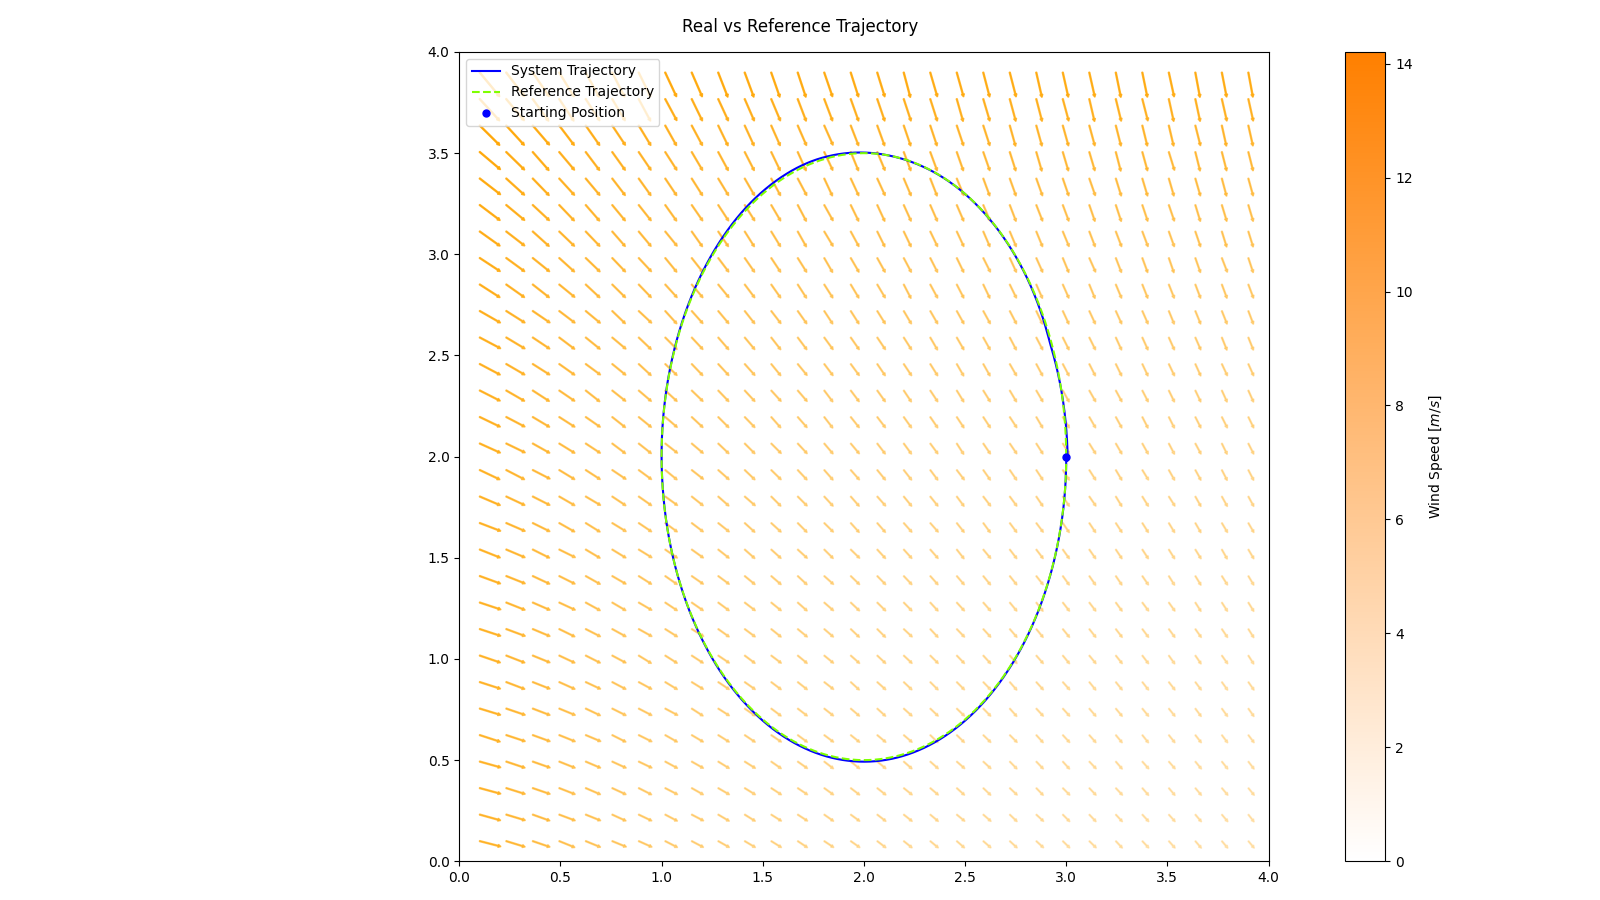
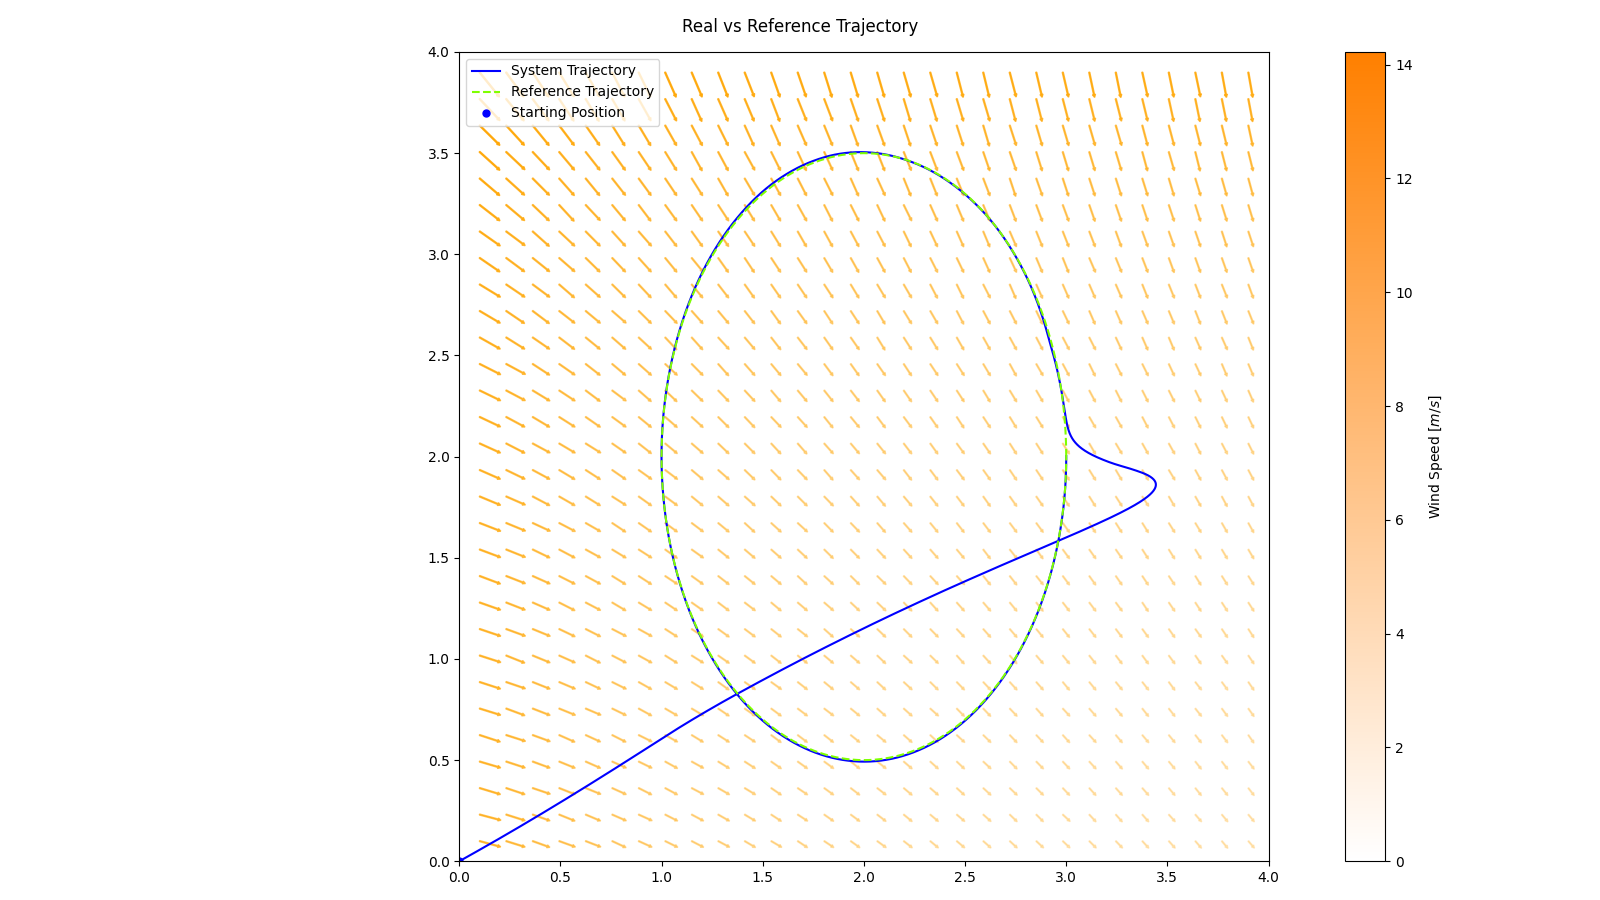
Added initial position to simulation and xhanged controller parameters and configuration

diff --git a/WindField.py b/WindField.py
@@ -87,10 +87,13 @@ class WindField:
         self.__system = System(m,r,self.__dt)
 
         # Controller Matrices
-        Kp = np.diag([32.0,15.0])
-        Kd = np.diag([13.0,9.0])
+        Kp = np.diag(data["Kp"])
+        Kd = np.diag(data["Kd"])
         # The controller's parameter were retrieved using MATLAB
         self.__pd = PD(Kp,Kd)
+        # Setup controller saturation
+        self.__lower_control_lim = data["u_min"]
+        self.__upper_control_lim = data["u_max"]
         
     def __setup_gp(self):
         # Create arrays to train the GP model
@@ -317,7 +320,7 @@ class WindField:
             self.__system.discrete_dynamics(wind_force+control_force)
             t+=1
 
-    def simulate_gp(self, max_size, predictors, show=False, save=None, kernel_name=''):
+    def simulate_gp(self, max_size, predictors, p0=None, show=False, save=None, kernel_name=''):
         if self.__trajectory is None:
             raise MissingTrajectoryException()
         
@@ -404,9 +407,6 @@ class WindField:
                     predicted_x_pos.append(dummy.p[0])
                     predicted_y_pos.append(dummy.p[1])
 
-                    self.__ctl_forces_x.append(control_force[0])
-                    self.__ctl_forces_y.append(control_force[1])
-
                     # Collect labels for GP
                     self.__gp_label_x.append(wind_force[0])
                     self.__gp_label_y.append(wind_force[1])
@@ -431,6 +431,10 @@ class WindField:
                     predictor_y.set_train_data(torch.cat([gp_data,p],dim=0),torch.cat([gp_labels,torch.FloatTensor([wind_force[1]])],dim=0),strict=False)
                 k+=1
             
+            control_force = control_force.clip(self.__lower_control_lim,self.__upper_control_lim)
+            self.__ctl_forces_x.append(control_force[0])
+            self.__ctl_forces_y.append(control_force[1])
+
             # Simulate Dynamics
             self.__system.discrete_dynamics(wind_force+control_force)
             dummy.set_state(self.__system.p.copy(),self.__system.v.copy())
@@ -611,7 +615,7 @@ class WindField:
         #     # f'imgs/animations/{kernel_name}-{self.__trajectory_name}-trajectory.gif'
         # )
 
-    def simulate_mogp(self, max_size, predictor, show=False, save=None, kernel_name=''):
+    def simulate_mogp(self, max_size, predictor, p0=None, show=False, save=None, kernel_name=''):
         if self.__trajectory is None:
             raise MissingTrajectoryException()
         
@@ -628,8 +632,12 @@ class WindField:
 
         # Set the mass initial conditions
         p,_ = self.__trajectory.trajectory()
-        x0 = p[0,0]
-        y0 = p[1,0]
+        if p0 is None:
+            x0 = p[0,0]
+            y0 = p[1,0]
+        else:
+            x0 = p0[0]
+            y0 = p0[1]
         self.__system.p[0] = x0
         self.__system.p[1] = y0
 
@@ -688,9 +696,6 @@ class WindField:
                     predicted_x_pos.append(dummy.p[0])
                     predicted_y_pos.append(dummy.p[1])
 
-                    self.__ctl_forces_x.append(control_force[0])
-                    self.__ctl_forces_y.append(control_force[1])
-
                     # Collect labels for GP
                     self.__gp_label_x.append(wind_force[0])
                     self.__gp_label_y.append(wind_force[1])
@@ -708,6 +713,10 @@ class WindField:
                     predictor.set_train_data(torch.cat([gp_data,p],dim=0),torch.cat([gp_labels,torch.FloatTensor([wind_force])],dim=0),strict=False)
                 k+=1
             
+            control_force = control_force.clip(self.__lower_control_lim,self.__upper_control_lim)
+            self.__ctl_forces_x.append(control_force[0])
+            self.__ctl_forces_y.append(control_force[1])
+
             # Simulate Dynamics
             self.__system.discrete_dynamics(wind_force+control_force)
             dummy.set_state(self.__system.p.copy(),self.__system.v.copy())
@@ -885,9 +894,9 @@ class WindField:
             plt.show()
         plt.close('all')
 
-        # self.animate(
-        #     # f'imgs/animations/{kernel_name}-{self.__trajectory_name}-trajectory.gif'
-        # )
+        self.animate(
+            # f'imgs/animations/{kernel_name}-{self.__trajectory_name}-trajectory.gif'
+        )
 
     def reset(self, wind_field_conf_file=None, mass_conf_file=None, gp_predictor_x=None, gp_predictor_y=None):
         '''
@@ -938,7 +947,7 @@ class WindField:
         '''
         self.__setup_gp()
 
-    def animate(self, save=None):
+    def animate(self, save=None, scale=25, interval=10):
         '''
         Plots the animation showing the evolution of the system following the trajectory
         in the wind field
@@ -950,22 +959,23 @@ class WindField:
         fig.suptitle(f'{file_name} Trajectory')
         fig.set_size_inches(16,9)
         def animation_function(t):
+            t = int(t*scale)
             ax.clear()
             ax.set_xlim([0,self.__width])
             ax.set_ylim([0,self.__height])
             ax.plot(np.NaN, np.NaN, '-', color='none', label='t={0:.2f} s'.format(t*self.__dt))
-            ax.plot(self.__tr_p[0,t],self.__tr_p[1,t],'o',color='orange',markersize=7,label='Target Distance=[{0:.2f},{0:.2f}] m'.format(self.__ex[int(t/self.__control_frequency)],self.__ey[int(t/self.__control_frequency)])) # Traget Location
+            ax.plot(self.__tr_p[0,t],self.__tr_p[1,t],'o',color='orange',markersize=7,label='Target Distance=[{0:.2f},{0:.2f}] m'.format(self.__ex[t],self.__ey[t])) # Traget Location
             ax.plot(self.__xs[t],self.__ys[t],'bo',markersize=5) # Object Moving
-            ax.quiver(self.__xs[t],self.__ys[t],self.__wind_force_x[t],self.__wind_force_y[t],scale=20,width=0.003,color='r',label='Wind Force=[{0:.2f},{0:.2f}] N'.format(self.__wind_force_x[t],self.__wind_force_y[t])) # Wind Force
-            ax.quiver(self.__xs[t],self.__ys[t],self.__ctl_forces_x[int(t/self.__control_frequency)],self.__ctl_forces_y[int(t/self.__control_frequency)],scale=20,width=0.003,color="#4DBEEE",label='Control Force=[{0:.2f},{0:.2f}] N'.format(self.__ctl_forces_x[int(t/self.__control_frequency)],self.__ctl_forces_y[int(t/self.__control_frequency)])) # Control Force
+            ax.quiver(self.__xs[t],self.__ys[t],self.__wind_force_x[t],self.__wind_force_y[t],scale=75,width=0.003,color='r',label='Wind Force=[{0:.2f},{0:.2f}] N'.format(self.__wind_force_x[t],self.__wind_force_y[t])) # Wind Force
+            ax.quiver(self.__xs[t],self.__ys[t],self.__ctl_forces_x[t],self.__ctl_forces_y[t],scale=75,width=0.003,color="#4DBEEE",label='Control Force=[{0:.2f},{0:.2f}] N'.format(self.__ctl_forces_x[t],self.__ctl_forces_y[t])) # Control Force
             ax.plot(self.__xs[:t],self.__ys[:t],'b')
             ax.plot(self.__tr_p[0,:t],self.__tr_p[1,:t],'--',color='orange')
             ax.legend()
 
-        anim = animation.FuncAnimation(fig,animation_function,frames=self.__duration,interval=10,repeat=False)
+        anim = animation.FuncAnimation(fig,animation_function,frames=int(self.__duration/scale),interval=interval,repeat=False)
 
         if save is not None:
-            anim.save(save,writer=animation.FFMpegWriter(fps=60))
+            anim.save(save,writer=animation.FFMpegWriter(fps=30))
 
         plt.show()
         plt.close('all')

diff --git a/utils/test.py b/utils/test.py
@@ -10,7 +10,7 @@ from GPModels.SVGPModel import *
 from GPModels.MultiOutputExactGPModel import *
 
 @torch.no_grad
-def __test_svgp(wind_field, trajectories_folder, model_x, model_y, name, window_size, laps, show, save):
+def __test_svgp(wind_field, trajectories_folder, model_x, model_y, name, window_size, p0, laps, show, save):
 
     # Put the models in eval mode
     model_x.eval()
@@ -23,12 +23,12 @@ def __test_svgp(wind_field, trajectories_folder, model_x, model_y, name, window_
         file_name = Path(file).stem
         wind_field.set_trajectory(trajectories_folder+'/'+file,file_name,laps)
         wind_field.draw_wind_field(True)
-        wind_field.simulate_gp(window_size,[model_x,model_y],show=show,save=save,kernel_name=name)
+        wind_field.simulate_gp(window_size,[model_x,model_y],p0,show=show,save=save,kernel_name=name)
         wind_field.reset()
         wind_field.reset_gp()
 
 @torch.no_grad
-def __test_exact_gp(wind_field, trajectories_folder, model_x, model_y, name, window_size, laps, show, save):
+def __test_exact_gp(wind_field, trajectories_folder, model_x, model_y, name, window_size, p0, laps, show, save):
 
     # Put the models in eval mode
     model_x.eval()
@@ -40,12 +40,12 @@ def __test_exact_gp(wind_field, trajectories_folder, model_x, model_y, name, win
     for file in os.listdir(trajectories_folder):
         file_name = Path(file).stem
         wind_field.set_trajectory(trajectories_folder+'/'+file,file_name,laps)
-        wind_field.simulate_gp(window_size,[model_x,model_y],show=show,save=save,kernel_name=name)  
+        wind_field.simulate_gp(window_size,[model_x,model_y],p0,show=show,save=save,kernel_name=name)  
         wind_field.reset()
         wind_field.reset_gp()
 
 @torch.no_grad
-def __test_exact_mogp(wind_field, trajectories_folder, model, name, window_size, laps, show, save):
+def __test_exact_mogp(wind_field, trajectories_folder, model, name, window_size, p0, laps, show, save):
 
     # Put the models in eval mode
     model.eval()
@@ -56,12 +56,12 @@ def __test_exact_mogp(wind_field, trajectories_folder, model, name, window_size,
     for file in os.listdir(trajectories_folder):
         file_name = Path(file).stem
         wind_field.set_trajectory(trajectories_folder+'/'+file,file_name,laps)
-        wind_field.simulate_mogp(window_size,model,show=show,save=save,kernel_name=name) 
+        wind_field.simulate_mogp(window_size,model,p0,show=show,save=save,kernel_name=name) 
         wind_field.reset()
         wind_field.reset_gp()
 
 
-def test_svgp(wind_field, trajecotries_folder, options, window_size=100, laps=1, show=False, save=None):
+def test_svgp(wind_field, trajecotries_folder, options, window_size=100, p0=None, laps=1, show=False, save=None):
     file = open(".metadata/svgp_dict","rb")
     svgp_dict = pickle.load(file)
     file.close()
@@ -98,7 +98,7 @@ def test_svgp(wind_field, trajecotries_folder, options, window_size=100, laps=1,
 
             __test_svgp(wind_field,trajecotries_folder,model_x,model_y,name,window_size,laps,show,save)
 
-def test_exact_gp(wind_field, trajecotries_folder, options, window_size=100, laps=1, show=False, save=None):
+def test_exact_gp(wind_field, trajecotries_folder, options, window_size=100, p0=None, laps=1, show=False, save=None):
     file = open(".metadata/exact_gp_dict","rb")
     exact_gp_dict = pickle.load(file)
 
@@ -118,9 +118,9 @@ def test_exact_gp(wind_field, trajecotries_folder, options, window_size=100, lap
             model_y.load_state_dict(model_y_dict)
             __test_exact_gp(wind_field,trajecotries_folder,model_x,model_y,name,window_size,laps, show, save)
 
-def test_exact_mogp(wind_field, trajecotries_folder, options, window_size=100, laps=1, show=False, save=None):
+def test_exact_mogp(wind_field, trajecotries_folder, options, window_size=100, p0=None, laps=1, show=False, save=None):
     file = open(".metadata/mo_exact_gp_dict","rb")
-    mo_exact_gp_dict = pickle.load(file)
+    mo_exact_gp_dict = pickle.load(file) 
 
     for name in mo_exact_gp_dict:
         if options[name]:
@@ -130,6 +130,15 @@ def test_exact_mogp(wind_field, trajecotries_folder, options, window_size=100, l
             model = mo_exact_gp_dict[name](torch.empty((0,2)),torch.empty((0,2)),likelihood)
             model_dict = torch.load(f'models/MultiOutputExactGP/model-{name}.pth')
             model.load_state_dict(model_dict)
-            # print(model.covar_module.data_covar_module.lengthscale)
-            # exit()
-            __test_exact_mogp(wind_field,trajecotries_folder,model,name,window_size,laps,show,save)
+
+            __test_exact_mogp(
+                wind_field,
+                trajecotries_folder,
+                model,
+                name,
+                window_size,
+                p0,
+                laps,
+                show,
+                save
+            )

diff --git a/main.py b/main.py
@@ -3,6 +3,7 @@ import json
 import torch
 import warnings
 import os
+import numpy as np
 
 from WindField import WindField
 from utils.train import *
@@ -60,7 +61,7 @@ device = (
 
 # Train Models
 if not test:
-    wind_field = WindField('configs/wind_field.json','configs/mass.json')
+    wind_field = WindField('configs/wind_field.json','configs/system.json')
 
     # Run the simulation for the different trajectories
     for file in os.listdir('trajectories'):
@@ -85,13 +86,14 @@ if not test:
     train_SVGP(gp_data,x_labels,y_labels,svgp_options,device,2000)
 # Test Models
 else:
-    wind_field = WindField('configs/wind_field_test.json','configs/mass.json')
+    wind_field = WindField('configs/wind_field_test.json','configs/system.json')
     test_svgp(
         wind_field,
         'test_trajectories',
         svgp_options,
-        window_size=50,
-        laps=1,
+        window_size = 50,
+        p0 = None,
+        laps = 1,
         show = True if (show_plots == 'test' or show_plots == 'all') else False,
         save = 'imgs/gp_updates/SVGP/' if (save_plots == 'test' or save_plots == 'all') else None
     )
@@ -99,8 +101,9 @@ else:
         wind_field,
         'test_trajectories',
         exact_gp_options,
-        window_size=50,
-        laps=1,
+        window_size = 50,
+        p0 = None,
+        laps = 1,
         show = True if (show_plots == 'test' or show_plots == 'all') else False,
         save = 'imgs/gp_updates/ExactGP/' if (save_plots == 'test' or save_plots == 'all') else None
     )
@@ -108,8 +111,9 @@ else:
         wind_field,
         'test_trajectories',
         mo_exact_gp_options,
-        window_size=50,
-        laps=1,
+        window_size = 50,
+        p0 = np.array([0.0,0.0]),
+        laps = 1,
         show = True if (show_plots == 'test' or show_plots == 'all') else False,
         save = 'imgs/gp_updates/MultiOutputExactGP/' if (save_plots == 'test' or save_plots == 'all') else None
     )

diff --git a/modules/PD.py b/modules/PD.py
@@ -7,8 +7,6 @@ class PD:
     def __init__(self,Kp,Kd):
         self.Kp = Kp.copy()
         self.Kd = Kd.copy()
-        self.upper_bound = np.inf
-        self.lower_bound = -np.inf
     
     def step(self, ep, ev):
         '''
@@ -16,4 +14,4 @@ class PD:
         '''
         output = self.Kp@ep + self.Kd@ev
 
-        return np.clip(output,self.lower_bound,self.upper_bound)
+        return output

diff --git a/modules/Fan.py b/modules/Fan.py
@@ -44,6 +44,8 @@ class Fan:
         du_perp = np.abs(np.dot(ut,p))
         w = 0.002
         # Compute the speed
+        if du_par==0:
+            du_par = 1e-4
         speed = v0/2*(np.tanh((du_perp+self.width/2)/(w*np.abs(du_par)))-np.tanh((du_perp-self.width/2)/(w*np.abs(du_par))))/(np.abs(du_par+1))
         
         return speed

diff --git a/README.md b/README.md
@@ -87,7 +87,7 @@ Function `"parameters"`:
 # Fan Generation Function
 
 $$
-v(t,d_\perp,d_\parallel) = \frac{v_0(t)}{2}\frac{\tanh\left( \frac{d_\perp+\frac{L}{2}}{w\cdot d_\parallel} \right)-\left(\frac{d_\perp-\frac{L}{2}}{w\cdot d_\parallel}\right)}{d_\parallel+1}
+v(t,d_\perp,d_\parallel) = \frac{v_0(t)}{2}\frac{\tanh\left( \frac{d_\perp+\frac{L}{2}}{w\cdot d_\parallel} \right)-\tanh\left(\frac{d_\perp-\frac{L}{2}}{w\cdot d_\parallel}\right)}{d_\parallel+1}
 $$
 
 where:
